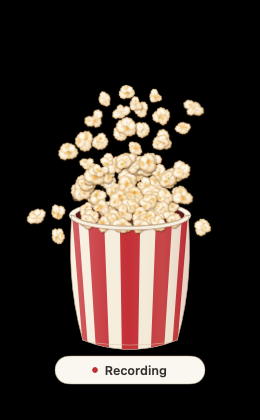
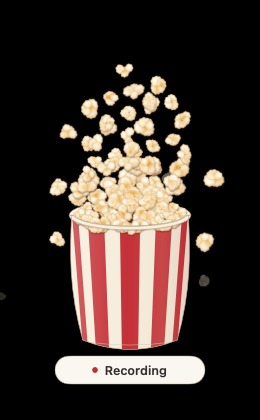
Second pass: regenerate popcorn visuals
Buttery glaze, 42-piece pile, and the longer tub-to-capsule collapse in the
stills, native copies, kernel preview, and README GIF. Beagle stills are
unchanged.

Claude-Session: https://claude.ai/code/session_01N85GfCiXRj45JScwBpcgTM

diff --git a/docs/visuals/popcorn-polish-check.md b/docs/visuals/popcorn-polish-check.md
@@ -1,4 +1,4 @@
-# Popcorn voice-polish verification - 2026-09-13T00:47:25Z
+# Popcorn voice-polish verification - 2026-09-13T01:04:48Z
 
 Production HUD remains Canvas-only. Popcorn captures use the
 fixed 260×420 point scene and the production `SceneInput(snapshot:)` mapping; primary stills use 2× documentation scale with native 1× copies where applicable. Kernels are pre-rendered sprites under one scene-space light; the decorative pile is spring-simulated in `PopcornSim`.
@@ -8,10 +8,10 @@ fixed 260×420 point scene and the production `SceneInput(snapshot:)` mapping; p
 - Capture command: `PopcornCapture <output-directory> popcorn`.
 - Seed 2026 sequence: quiet 0.035 (2 s), normal 0.12 (2 s), loud 0.28 (3 s),
   accents (2 s), silence (1 s). Light and dark backgrounds.
-- Peak kernel count in capture: 63 (cap 120).
-- Sequence generation wall time (simulation, still rendering, and PNG writes): 188.5 ms.
-- Offscreen Canvas renders (2× light+dark pair): median 1.03 ms,
-  95th 1.07 ms. These are ImageRenderer measurements,
+- Peak kernel count in capture: 66 (cap 120).
+- Sequence generation wall time (simulation, still rendering, and PNG writes): 188.9 ms.
+- Offscreen Canvas renders (2× light+dark pair): median 1.11 ms,
+  95th 1.15 ms. These are ImageRenderer measurements,
   **not** live display/compositor frame timings and **not** microphone-to-screen latency.
   Layered release numbers come from `PopcornCapture --bench`.
 - Packet-to-render path is one display tick after `consumePeak` (held level between
